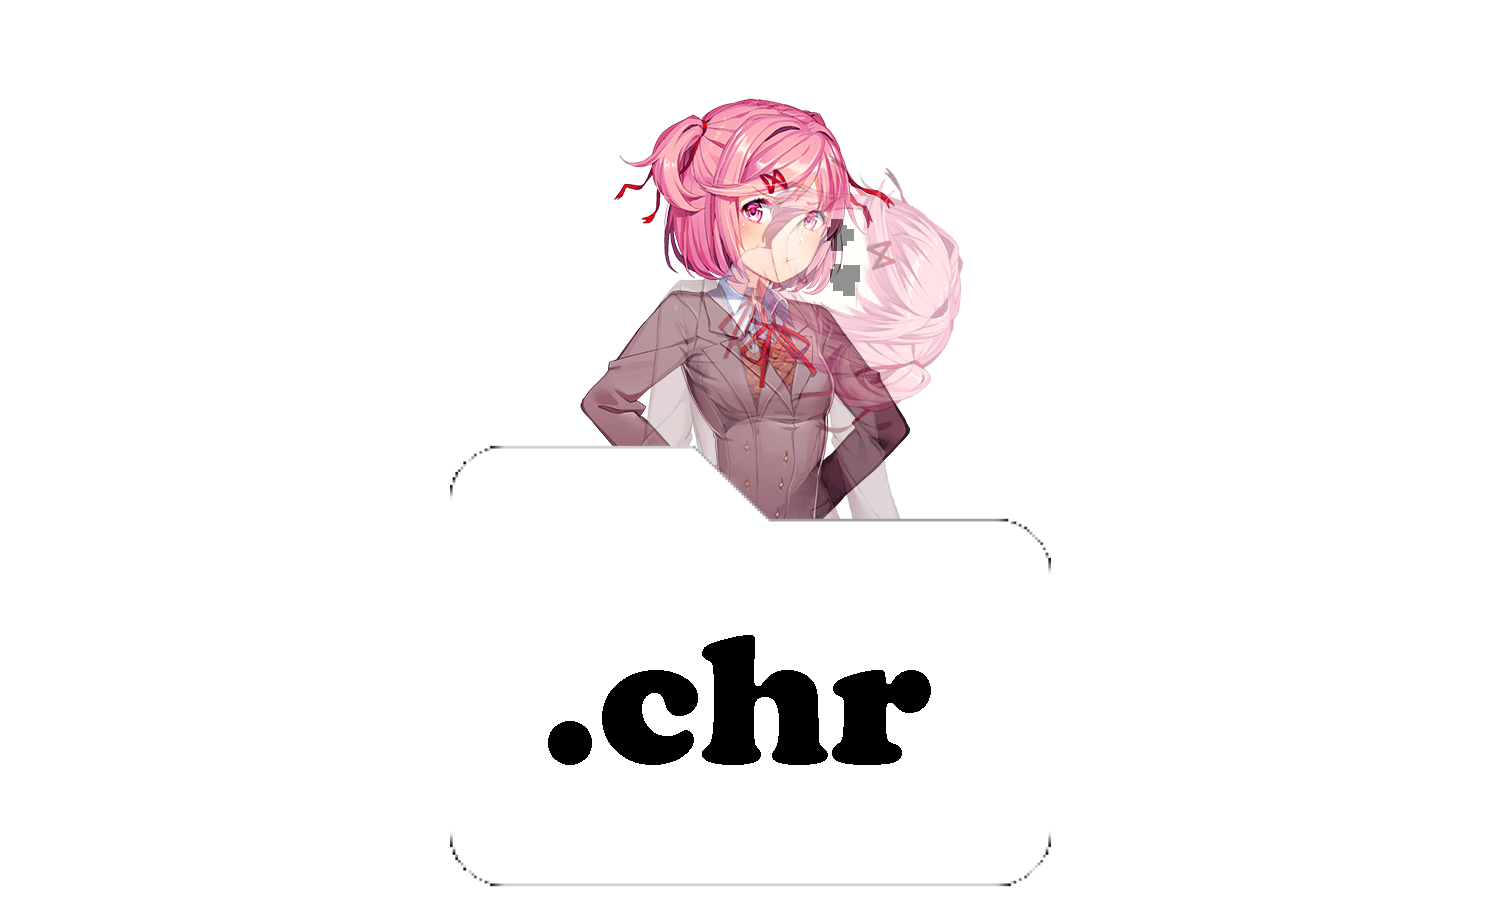
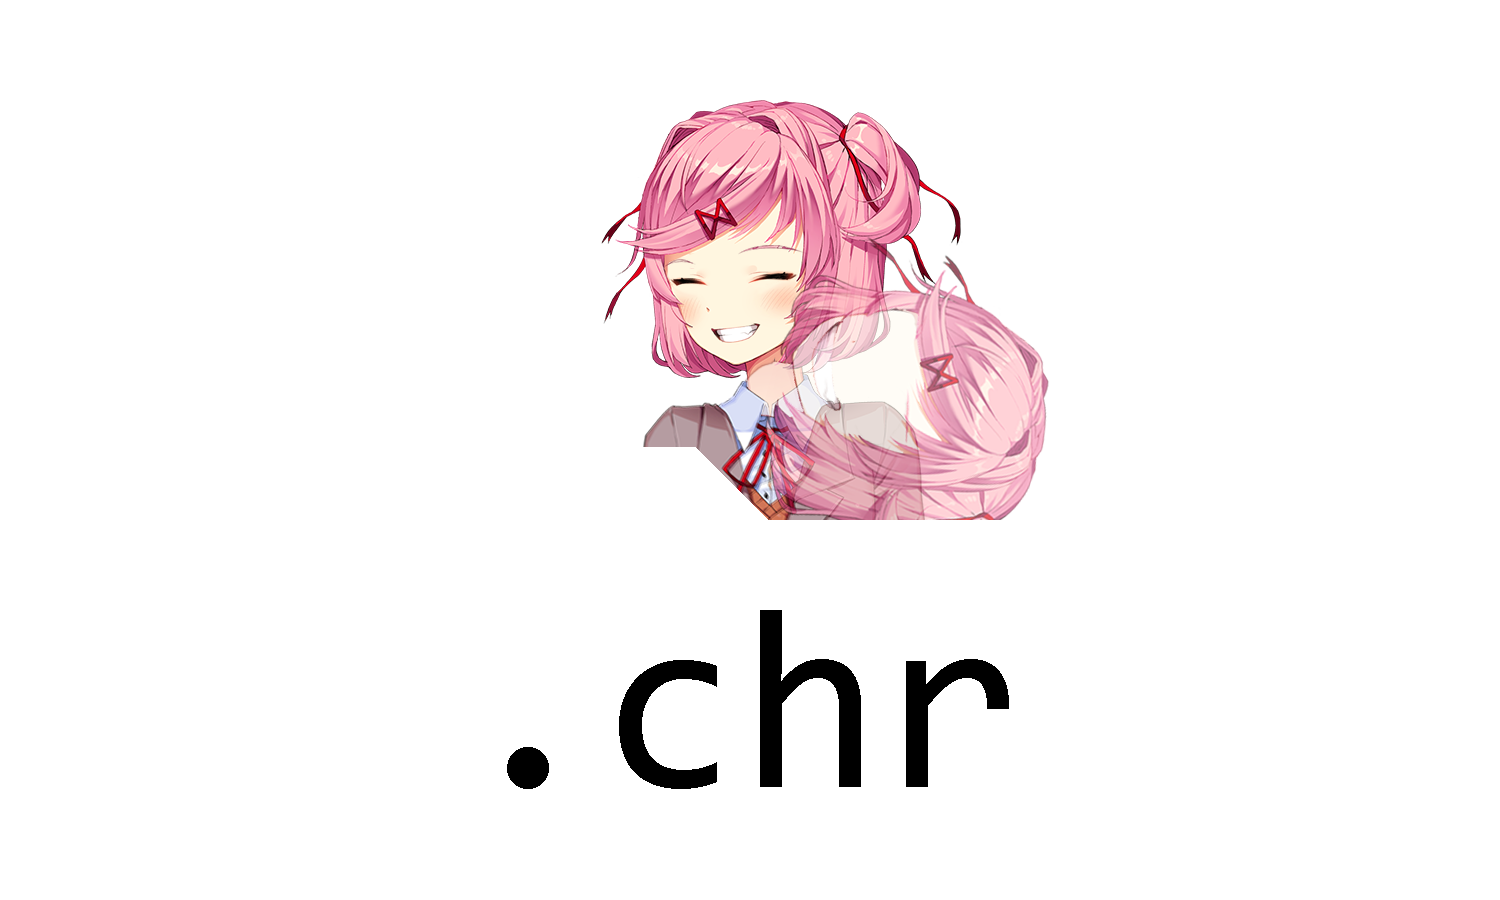
Updated .chr spell sprites.

Changed region(s): [[0.368, 0.0933, 0.7053, 0.5911], [0.3373, 0.6533, 0.6747, 0.9022], [0.3373, 0.9644, 0.6747, 0.9956]]

diff --git a/Smart_Attempt/dist/prettycards.user.js b/Smart_Attempt/dist/prettycards.user.js
@@ -168,7 +168,7 @@ eval("__webpack_require__.r(__webpack_exports__);\n/* harmony import */ var _src
 /***/ (function(module, __webpack_exports__, __webpack_require__) {
 
 "use strict";
-eval("__webpack_require__.r(__webpack_exports__);\n/* harmony import */ var _src_libraries_custom_cards_custom_cards_dictionary_js__WEBPACK_IMPORTED_MODULE_0__ = __webpack_require__(/*! /src/libraries/custom_cards/custom_cards_dictionary.js */ \"./src/libraries/custom_cards/custom_cards_dictionary.js\");\n\r\n\r\n\r\n// Chibis\r\n\r\n_src_libraries_custom_cards_custom_cards_dictionary_js__WEBPACK_IMPORTED_MODULE_0__[\"CustomCardsDictionary\"].AddCustomCard({\r\n\tname: \"{{PLURAL:$1|Chibi Sayori|Chibi Sayoris}}\",\r\n\timage: \"Chibi_Sayori\",\r\n\tcost: 3,\r\n\tattack: 2,\r\n\thp: 2,\r\n\tdescription: \"{{KW:MAGIC}}: All {{TRIBE:CHIBI|2}} get +1/+1/+1 for the rest of the game, and clear all negative effects from all ally monsters.\",\r\n\ttribes: [\"CHIBI\"],\r\n\textension: \"DDLC\",\r\n\trarity: \"COMMON\"\r\n});\r\n\r\n_src_libraries_custom_cards_custom_cards_dictionary_js__WEBPACK_IMPORTED_MODULE_0__[\"CustomCardsDictionary\"].AddCustomCard({\r\n\tname: \"{{PLURAL:$1|Chibi Natsuki|Chibi Natsukis}}\",\r\n\timage: \"Chibi_Natsuki\",\r\n\tcost: 3,\r\n\tattack: 2,\r\n\thp: 2,\r\n\tdescription: \"{{KW:MAGIC}}: All {{TRIBE:CHIBI|2}} get +1/+1/+1 for the rest of the game, and give +3 {{HP}} to an ally monster.\",\r\n\ttribes: [\"CHIBI\"],\r\n\textension: \"DDLC\",\r\n\trarity: \"COMMON\"\r\n});\r\n\r\n_src_libraries_custom_cards_custom_cards_dictionary_js__WEBPACK_IMPORTED_MODULE_0__[\"CustomCardsDictionary\"].AddCustomCard({\r\n\tname: \"{{PLURAL:$1|Chibi Yuri|Chibi Yuris}}\",\r\n\timage: \"Chibi_Yuri\",\r\n\tcost: 3,\r\n\tattack: 2,\r\n\thp: 2,\r\n\tdescription: \"{{KW:MAGIC}}: All {{TRIBE:CHIBI|2}} get +1/+1/+1 for the rest of the game, and give +2 {{ATK}} to an ally monster.\",\r\n\ttribes: [\"CHIBI\"],\r\n\textension: \"DDLC\",\r\n\trarity: \"COMMON\"\r\n});\r\n\r\n_src_libraries_custom_cards_custom_cards_dictionary_js__WEBPACK_IMPORTED_MODULE_0__[\"CustomCardsDictionary\"].AddCustomCard({\r\n\tname: \"{{PLURAL:$1|Chibi Monika|Chibi Monikas}}\",\r\n\timage: \"Chibi_Monika\",\r\n\tcost: 5,\r\n\tattack: 2,\r\n\thp: 2,\r\n\tdescription: \"{{KW:MAGIC}}: All {{TRIBE:CHIBI|2}} get +1/+1/+1 for the rest of the game, and add a copy of all other ally {{TRIBE:CHIBI|2}} to your hand.\",\r\n\ttribes: [\"CHIBI\"],\r\n\textension: \"DDLC\",\r\n\trarity: \"COMMON\"\r\n});\r\n\r\n// Regular Cast\r\n\r\n_src_libraries_custom_cards_custom_cards_dictionary_js__WEBPACK_IMPORTED_MODULE_0__[\"CustomCardsDictionary\"].AddCustomCard({\r\n\tname: \"{{PLURAL:$1|Sayori|Sayoris}}\",\r\n\timage: \"Sayori\",\r\n\tcost: 4,\r\n\tattack: 3,\r\n\thp: 3,\r\n\tdescription: \"Immune to incoming effects. {{KW:SUICIDE}}: Deal 1 {{DMG}} to all enemy monsters. If they have 2 or more status effects, deal 3 {{DMG}} instead.\",\r\n\ttribes: [\"DOKI\"],\r\n\textension: \"DDLC\",\r\n\trarity: \"EPIC\"\r\n});\r\n\r\n_src_libraries_custom_cards_custom_cards_dictionary_js__WEBPACK_IMPORTED_MODULE_0__[\"CustomCardsDictionary\"].AddCustomCard({\r\n\tname: \"{{PLURAL:$1|Cupcake|Cupcakes}}\",\r\n\timage: \"Cupcake\",\r\n\tcost: 1,\r\n\tdescription: \"Heal for 4 {{HP}} to an ally or deal 3 {{DMG}} to an enemy monster.\",\r\n\textension: \"DDLC\",\r\n\trarity: \"TOKEN\"\r\n});\r\n\r\n_src_libraries_custom_cards_custom_cards_dictionary_js__WEBPACK_IMPORTED_MODULE_0__[\"CustomCardsDictionary\"].AddCustomCard({\r\n\tname: \"{{PLURAL:$1|Natsuki|Natsukis}}\",\r\n\timage: \"Natsuki\",\r\n\tcost: 4,\r\n\tattack: 3,\r\n\thp: 4,\r\n\tdescription: \"{{KW:MAGIC}}: Add two \" + _src_libraries_custom_cards_custom_cards_dictionary_js__WEBPACK_IMPORTED_MODULE_0__[\"CustomCardsDictionary\"].DescriptionCard(\"Cupcake\", 2) + \" to your hand. {{KW:SUICIDE}}: Deal 5 {{DMG}} to the monster in front of this.\",\r\n\ttribes: [\"DOKI\"],\r\n\textension: \"DDLC\",\r\n\trarity: \"EPIC\"\r\n});\r\n\r\n_src_libraries_custom_cards_custom_cards_dictionary_js__WEBPACK_IMPORTED_MODULE_0__[\"CustomCardsDictionary\"].AddCustomCard({\r\n\tname: \"{{PLURAL:$1|Yuri|Yuris}}\",\r\n\timage: \"Yuri\",\r\n\tcost: 5,\r\n\tattack: 4,\r\n\thp: 3,\r\n\tdescription: \"Whenever this survives {{DMG}}, give this +1 {{HP}}. {{KW:SUICIDE}}: {{KW:PARALYZE}} all ally monsters, then {{KW:PARALYZE}} a random unparalyzed enemy monster for each paralyzed ally monster.\",\r\n\ttribes: [\"DOKI\"],\r\n\textension: \"DDLC\",\r\n\trarity: \"EPIC\"\r\n});\r\n\r\n_src_libraries_custom_cards_custom_cards_dictionary_js__WEBPACK_IMPORTED_MODULE_0__[\"CustomCardsDictionary\"].AddCustomCard({\r\n\tname: \"{{PLURAL:$1|Monika|Monikas}}\",\r\n\timage: \"Monika\",\r\n\tcost: 5,\r\n\tattack: 3,\r\n\thp: 3,\r\n\tdescription: \"{{KW:MAGIC}}: Kill an ally {{TRIBE:DOKI|1}} to summon another \" + _src_libraries_custom_cards_custom_cards_dictionary_js__WEBPACK_IMPORTED_MODULE_0__[\"CustomCardsDictionary\"].DescriptionSelfCard() + \". {{KW:DUST}}: Add another random {{TRIBE:DOKI|1}} to your hand with -2 {{COST}}.\",\r\n\ttribes: [\"DOKI\"],\r\n\textension: \"DDLC\",\r\n\trarity: \"EPIC\"\r\n});\r\n\r\n_src_libraries_custom_cards_custom_cards_dictionary_js__WEBPACK_IMPORTED_MODULE_0__[\"CustomCardsDictionary\"].AddCustomCard({\r\n\tname: \"{{PLURAL:$1|Main Character|Main Characters}}\",\r\n\timage: \"Protagonist\",\r\n\tcost: 6,\r\n\tattack: 3,\r\n\thp: 7,\r\n\ttaunt: true,\r\n\tdescription: \"{{KW:TAUNT}}. Whenever a {{KW:SUICIDE}} effect is activated, add a 1/1 copy of the triggering monster into your deck and give it +1/+1 for every {{TRIBE:DOKI|1}} in your hand.\",\r\n\t//tribes: [\"DOKI\"],\r\n\textension: \"DDLC\",\r\n\trarity: \"EPIC\"\r\n});\r\n\r\n/*\r\nCustomCardsDictionary.AddCustomCard({\r\n\tname: \"{{PLURAL:$1|Just Monika|Just Monikas}}\",\r\n\timage: \"Just_Monika\",\r\n\tcost: 9,\r\n\tattack: 6,\r\n\thp: 6,\r\n\tdescription: \"{{KW:MAGIC}}: Shuffle all the {{TRIBE:CHRSPELL|2}} into your deck. {{KW:SUICIDE}} effects trigger an additional time.\",\r\n\textension: \"DDLC\",\r\n\trarity: \"DETERMINATION\"\r\n});\r\n*/\r\n\r\n// Just Monika\r\n\r\n_src_libraries_custom_cards_custom_cards_dictionary_js__WEBPACK_IMPORTED_MODULE_0__[\"CustomCardsDictionary\"].AddCustomCard({\r\n\tname: \"{{PLURAL:$1|Sayori.chr|Sayori.chrs}}\",\r\n\timage: \"SayoriCHR\",\r\n\tcost: 0,\r\n\tdescription: \"{{KW:TURBO}}: Remove all negative effects from ally monsters, apply them to the monsters in front of them, burn this and draw a card.\",\r\n\ttribes: [\"CHRSPELL\"],\r\n\textension: \"DDLC\",\r\n\trarity: \"TOKEN\"\r\n});\r\n\r\n_src_libraries_custom_cards_custom_cards_dictionary_js__WEBPACK_IMPORTED_MODULE_0__[\"CustomCardsDictionary\"].AddCustomCard({\r\n\tname: \"{{PLURAL:$1|Natsuki.chr|Natsuki.chrs}}\",\r\n\timage: \"NatsukiCHR\",\r\n\tcost: 0,\r\n\tdescription: \"{{KW:TURBO}}: Summon a random 5-{{COST}} monster, trigger its {{KW:MAGIC}}, burn this and draw a card.\",\r\n\ttribes: [\"CHRSPELL\"],\r\n\textension: \"DDLC\",\r\n\trarity: \"TOKEN\"\r\n});\r\n\r\n_src_libraries_custom_cards_custom_cards_dictionary_js__WEBPACK_IMPORTED_MODULE_0__[\"CustomCardsDictionary\"].AddCustomCard({\r\n\tname: \"{{PLURAL:$1|Yuri.chr|Yuri.chrs}}\",\r\n\timage: \"YuriCHR\",\r\n\tcost: 0,\r\n\tdescription: \"{{KW:TURBO}}: Kill the enemy monster with the lowest {{HP}}, burn this and draw a card.\",\r\n\ttribes: [\"CHRSPELL\"],\r\n\textension: \"DDLC\",\r\n\trarity: \"TOKEN\"\r\n});\r\n\r\n_src_libraries_custom_cards_custom_cards_dictionary_js__WEBPACK_IMPORTED_MODULE_0__[\"CustomCardsDictionary\"].AddCustomCard({\r\n\tname: \"{{PLURAL:$1|Monika.chr|Monika.chrs}}\",\r\n\timage: \"MonikaCHR\",\r\n\tcost: 0,\r\n\tdescription: \"{{KW:TURBO}}: Send a random ally and enemy non-{{RARITY:DETERMINATION}} monster from the board to their owners' hands, burn this and draw a card.\",\r\n\ttribes: [\"CHRSPELL\"],\r\n\textension: \"DDLC\",\r\n\trarity: \"TOKEN\"\r\n});\r\n\r\n_src_libraries_custom_cards_custom_cards_dictionary_js__WEBPACK_IMPORTED_MODULE_0__[\"CustomCardsDictionary\"].AddCustomArtifact(\"File Explorer\", \r\n\t`{{KW:TURN-END}}: If a monster died this turn, add the next {{TRIBE:CHRSPELL|1}} to the top of your deck. Add an additional one for every ally {{KW:SUICIDE}} effect triggered this turn. \r\n\tOrder of {{TRIBE:CHRSPELL|2}}: ${_src_libraries_custom_cards_custom_cards_dictionary_js__WEBPACK_IMPORTED_MODULE_0__[\"CustomCardsDictionary\"].DescriptionCard(\"Sayori.chr\", 1)} > ${_src_libraries_custom_cards_custom_cards_dictionary_js__WEBPACK_IMPORTED_MODULE_0__[\"CustomCardsDictionary\"].DescriptionCard(\"Natsuki.chr\", 1)} > ${_src_libraries_custom_cards_custom_cards_dictionary_js__WEBPACK_IMPORTED_MODULE_0__[\"CustomCardsDictionary\"].DescriptionCard(\"Yuri.chr\", 1)} > ${_src_libraries_custom_cards_custom_cards_dictionary_js__WEBPACK_IMPORTED_MODULE_0__[\"CustomCardsDictionary\"].DescriptionCard(\"Monika.chr\", 1)} > Start over.`\r\n);\r\n\r\n_src_libraries_custom_cards_custom_cards_dictionary_js__WEBPACK_IMPORTED_MODULE_0__[\"CustomCardsDictionary\"].AddCustomCard({\r\n\tname: \"{{PLURAL:$1|Just Monika|Just Monikas}}\",\r\n\timage: \"Just_Monika\",\r\n\tcost: 9,\r\n\tattack: 6,\r\n\thp: 6,\r\n\tdescription: \"{{KW:MAGIC}}: Add the \" + _src_libraries_custom_cards_custom_cards_dictionary_js__WEBPACK_IMPORTED_MODULE_0__[\"CustomCardsDictionary\"].DescriptionArtifact(\"File Explorer\") + \" artifact. Whenever you summon a monster, trigger its {{KW:SUICIDE}} effect.\",\r\n\textension: \"DDLC\",\r\n\trarity: \"DETERMINATION\"\r\n});\r\n\r\n\n\n//# sourceURL=webpack:///./src/libraries/custom_cards/custom_cards_ddlc.js?");
+eval("__webpack_require__.r(__webpack_exports__);\n/* harmony import */ var _src_libraries_custom_cards_custom_cards_dictionary_js__WEBPACK_IMPORTED_MODULE_0__ = __webpack_require__(/*! /src/libraries/custom_cards/custom_cards_dictionary.js */ \"./src/libraries/custom_cards/custom_cards_dictionary.js\");\n\r\n\r\n\r\n// Chibis\r\n\r\n_src_libraries_custom_cards_custom_cards_dictionary_js__WEBPACK_IMPORTED_MODULE_0__[\"CustomCardsDictionary\"].AddCustomCard({\r\n\tname: \"{{PLURAL:$1|Chibi Sayori|Chibi Sayoris}}\",\r\n\timage: \"Chibi_Sayori\",\r\n\tcost: 3,\r\n\tattack: 2,\r\n\thp: 2,\r\n\tdescription: \"{{KW:MAGIC}}: All {{TRIBE:CHIBI|2}} get +1/+1/+1 for the rest of the game, and clear all negative effects from all ally monsters.\",\r\n\ttribes: [\"CHIBI\"],\r\n\textension: \"DDLC\",\r\n\trarity: \"COMMON\"\r\n});\r\n\r\n_src_libraries_custom_cards_custom_cards_dictionary_js__WEBPACK_IMPORTED_MODULE_0__[\"CustomCardsDictionary\"].AddCustomCard({\r\n\tname: \"{{PLURAL:$1|Chibi Natsuki|Chibi Natsukis}}\",\r\n\timage: \"Chibi_Natsuki\",\r\n\tcost: 3,\r\n\tattack: 2,\r\n\thp: 2,\r\n\tdescription: \"{{KW:MAGIC}}: All {{TRIBE:CHIBI|2}} get +1/+1/+1 for the rest of the game, and give +3 {{HP}} to an ally monster.\",\r\n\ttribes: [\"CHIBI\"],\r\n\textension: \"DDLC\",\r\n\trarity: \"COMMON\"\r\n});\r\n\r\n_src_libraries_custom_cards_custom_cards_dictionary_js__WEBPACK_IMPORTED_MODULE_0__[\"CustomCardsDictionary\"].AddCustomCard({\r\n\tname: \"{{PLURAL:$1|Chibi Yuri|Chibi Yuris}}\",\r\n\timage: \"Chibi_Yuri\",\r\n\tcost: 3,\r\n\tattack: 2,\r\n\thp: 2,\r\n\tdescription: \"{{KW:MAGIC}}: All {{TRIBE:CHIBI|2}} get +1/+1/+1 for the rest of the game, and give +2 {{ATK}} to an ally monster.\",\r\n\ttribes: [\"CHIBI\"],\r\n\textension: \"DDLC\",\r\n\trarity: \"COMMON\"\r\n});\r\n\r\n_src_libraries_custom_cards_custom_cards_dictionary_js__WEBPACK_IMPORTED_MODULE_0__[\"CustomCardsDictionary\"].AddCustomCard({\r\n\tname: \"{{PLURAL:$1|Chibi Monika|Chibi Monikas}}\",\r\n\timage: \"Chibi_Monika\",\r\n\tcost: 5,\r\n\tattack: 2,\r\n\thp: 2,\r\n\tdescription: \"{{KW:MAGIC}}: All {{TRIBE:CHIBI|2}} get +1/+1/+1 for the rest of the game, and add a copy of all other ally {{TRIBE:CHIBI|2}} to your hand.\",\r\n\ttribes: [\"CHIBI\"],\r\n\textension: \"DDLC\",\r\n\trarity: \"COMMON\"\r\n});\r\n\r\n// Regular Cast\r\n\r\n_src_libraries_custom_cards_custom_cards_dictionary_js__WEBPACK_IMPORTED_MODULE_0__[\"CustomCardsDictionary\"].AddCustomCard({\r\n\tname: \"{{PLURAL:$1|Sayori|Sayoris}}\",\r\n\timage: \"Sayori\",\r\n\tcost: 4,\r\n\tattack: 3,\r\n\thp: 3,\r\n\tdescription: \"Immune to incoming effects. {{KW:SUICIDE}}: Deal 1 {{DMG}} to all enemy monsters. If they have 2 or more status effects, deal 3 {{DMG}} instead.\",\r\n\ttribes: [\"DOKI\"],\r\n\textension: \"DDLC\",\r\n\trarity: \"EPIC\"\r\n});\r\n\r\n_src_libraries_custom_cards_custom_cards_dictionary_js__WEBPACK_IMPORTED_MODULE_0__[\"CustomCardsDictionary\"].AddCustomCard({\r\n\tname: \"{{PLURAL:$1|Cupcake|Cupcakes}}\",\r\n\timage: \"Cupcake\",\r\n\tcost: 1,\r\n\tdescription: \"Heal for 4 {{HP}} to an ally or deal 3 {{DMG}} to an enemy monster.\",\r\n\textension: \"DDLC\",\r\n\trarity: \"TOKEN\"\r\n});\r\n\r\n_src_libraries_custom_cards_custom_cards_dictionary_js__WEBPACK_IMPORTED_MODULE_0__[\"CustomCardsDictionary\"].AddCustomCard({\r\n\tname: \"{{PLURAL:$1|Natsuki|Natsukis}}\",\r\n\timage: \"Natsuki\",\r\n\tcost: 4,\r\n\tattack: 3,\r\n\thp: 4,\r\n\tdescription: \"{{KW:MAGIC}}: Add two \" + _src_libraries_custom_cards_custom_cards_dictionary_js__WEBPACK_IMPORTED_MODULE_0__[\"CustomCardsDictionary\"].DescriptionCard(\"Cupcake\", 2) + \" to your hand. {{KW:SUICIDE}}: Deal 5 {{DMG}} to the monster in front of this.\",\r\n\ttribes: [\"DOKI\"],\r\n\textension: \"DDLC\",\r\n\trarity: \"EPIC\"\r\n});\r\n\r\n_src_libraries_custom_cards_custom_cards_dictionary_js__WEBPACK_IMPORTED_MODULE_0__[\"CustomCardsDictionary\"].AddCustomCard({\r\n\tname: \"{{PLURAL:$1|Yuri|Yuris}}\",\r\n\timage: \"Yuri\",\r\n\tcost: 5,\r\n\tattack: 4,\r\n\thp: 3,\r\n\tdescription: \"Whenever this survives {{DMG}}, give this +1 {{HP}}. {{KW:SUICIDE}}: {{KW:PARALYZE}} all ally monsters, then {{KW:PARALYZE}} a random unparalyzed enemy monster for each paralyzed ally monster.\",\r\n\ttribes: [\"DOKI\"],\r\n\textension: \"DDLC\",\r\n\trarity: \"EPIC\"\r\n});\r\n\r\n_src_libraries_custom_cards_custom_cards_dictionary_js__WEBPACK_IMPORTED_MODULE_0__[\"CustomCardsDictionary\"].AddCustomCard({\r\n\tname: \"{{PLURAL:$1|Monika|Monikas}}\",\r\n\timage: \"Monika\",\r\n\tcost: 5,\r\n\tattack: 3,\r\n\thp: 3,\r\n\tdescription: \"{{KW:MAGIC}}: Kill an ally {{TRIBE:DOKI|1}} to summon another \" + _src_libraries_custom_cards_custom_cards_dictionary_js__WEBPACK_IMPORTED_MODULE_0__[\"CustomCardsDictionary\"].DescriptionSelfCard() + \". {{KW:DUST}}: Add another random {{TRIBE:DOKI|1}} to your hand with -2 {{COST}}.\",\r\n\ttribes: [\"DOKI\"],\r\n\textension: \"DDLC\",\r\n\trarity: \"EPIC\"\r\n});\r\n\r\n_src_libraries_custom_cards_custom_cards_dictionary_js__WEBPACK_IMPORTED_MODULE_0__[\"CustomCardsDictionary\"].AddCustomCard({\r\n\tname: \"{{PLURAL:$1|Main Character|Main Characters}}\",\r\n\timage: \"Protagonist\",\r\n\tcost: 6,\r\n\tattack: 3,\r\n\thp: 7,\r\n\ttaunt: true,\r\n\tdescription: \"{{KW:TAUNT}}. Whenever a {{KW:SUICIDE}} effect is activated, add a 1/1 copy of the triggering monster into your deck and give it +1/+1 for every {{TRIBE:DOKI|1}} in your hand.\",\r\n\t//tribes: [\"DOKI\"],\r\n\textension: \"DDLC\",\r\n\trarity: \"EPIC\"\r\n});\r\n\r\n/*\r\nCustomCardsDictionary.AddCustomCard({\r\n\tname: \"{{PLURAL:$1|Just Monika|Just Monikas}}\",\r\n\timage: \"Just_Monika\",\r\n\tcost: 9,\r\n\tattack: 6,\r\n\thp: 6,\r\n\tdescription: \"{{KW:MAGIC}}: Shuffle all the {{TRIBE:CHRSPELL|2}} into your deck. {{KW:SUICIDE}} effects trigger an additional time.\",\r\n\textension: \"DDLC\",\r\n\trarity: \"DETERMINATION\"\r\n});\r\n*/\r\n\r\n// Just Monika\r\n\r\n_src_libraries_custom_cards_custom_cards_dictionary_js__WEBPACK_IMPORTED_MODULE_0__[\"CustomCardsDictionary\"].AddCustomCard({\r\n\tname: \"{{PLURAL:$1|Sayori.chr|Sayori.chrs}}\",\r\n\timage: \"SayoriCHR\",\r\n\tcost: 0,\r\n\tdescription: \"{{KW:TURBO}}: Remove all negative effects from ally monsters, apply them to the monsters in front of them, burn this and draw a card.\",\r\n\ttribes: [\"CHRSPELL\"],\r\n\textension: \"DDLC\",\r\n\trarity: \"TOKEN\"\r\n});\r\n\r\n_src_libraries_custom_cards_custom_cards_dictionary_js__WEBPACK_IMPORTED_MODULE_0__[\"CustomCardsDictionary\"].AddCustomCard({\r\n\tname: \"{{PLURAL:$1|Natsuki.chr|Natsuki.chrs}}\",\r\n\timage: \"NatsukiCHR\",\r\n\tcost: 0,\r\n\tdescription: \"{{KW:TURBO}}: Add a random 5-{{COST}} monster from your dustpile to your hand, give it -4 {{COST}}, burn this and draw a card.\",\r\n\ttribes: [\"CHRSPELL\"],\r\n\textension: \"DDLC\",\r\n\trarity: \"TOKEN\"\r\n});\r\n\r\n_src_libraries_custom_cards_custom_cards_dictionary_js__WEBPACK_IMPORTED_MODULE_0__[\"CustomCardsDictionary\"].AddCustomCard({\r\n\tname: \"{{PLURAL:$1|Yuri.chr|Yuri.chrs}}\",\r\n\timage: \"YuriCHR\",\r\n\tcost: 0,\r\n\tdescription: \"{{KW:TURBO}}: Kill the enemy monster with the lowest {{HP}}, burn this and draw a card.\",\r\n\ttribes: [\"CHRSPELL\"],\r\n\textension: \"DDLC\",\r\n\trarity: \"TOKEN\"\r\n});\r\n\r\n_src_libraries_custom_cards_custom_cards_dictionary_js__WEBPACK_IMPORTED_MODULE_0__[\"CustomCardsDictionary\"].AddCustomCard({\r\n\tname: \"{{PLURAL:$1|Monika.chr|Monika.chrs}}\",\r\n\timage: \"MonikaCHR\",\r\n\tcost: 0,\r\n\tdescription: \"{{KW:TURBO}}: Send a random ally and enemy non-{{RARITY:DETERMINATION}} monster from the board to their owners' hands, burn this and draw a card.\",\r\n\ttribes: [\"CHRSPELL\"],\r\n\textension: \"DDLC\",\r\n\trarity: \"TOKEN\"\r\n});\r\n\r\n_src_libraries_custom_cards_custom_cards_dictionary_js__WEBPACK_IMPORTED_MODULE_0__[\"CustomCardsDictionary\"].AddCustomArtifact(\"File Explorer\", \r\n\t`{{KW:TURN-END}}: If a monster died this turn, add the next {{TRIBE:CHRSPELL|1}} to the top of your deck. Add an additional one for every ally {{KW:SUICIDE}} effect triggered this turn. \r\n\tOrder of {{TRIBE:CHRSPELL|2}}: ${_src_libraries_custom_cards_custom_cards_dictionary_js__WEBPACK_IMPORTED_MODULE_0__[\"CustomCardsDictionary\"].DescriptionCard(\"Sayori.chr\", 1)} > ${_src_libraries_custom_cards_custom_cards_dictionary_js__WEBPACK_IMPORTED_MODULE_0__[\"CustomCardsDictionary\"].DescriptionCard(\"Natsuki.chr\", 1)} > ${_src_libraries_custom_cards_custom_cards_dictionary_js__WEBPACK_IMPORTED_MODULE_0__[\"CustomCardsDictionary\"].DescriptionCard(\"Yuri.chr\", 1)} > ${_src_libraries_custom_cards_custom_cards_dictionary_js__WEBPACK_IMPORTED_MODULE_0__[\"CustomCardsDictionary\"].DescriptionCard(\"Monika.chr\", 1)} > Start over.`\r\n);\r\n\r\n_src_libraries_custom_cards_custom_cards_dictionary_js__WEBPACK_IMPORTED_MODULE_0__[\"CustomCardsDictionary\"].AddCustomCard({\r\n\tname: \"{{PLURAL:$1|Just Monika|Just Monikas}}\",\r\n\timage: \"Just_Monika\",\r\n\tcost: 9,\r\n\tattack: 6,\r\n\thp: 6,\r\n\tdescription: \"{{KW:MAGIC}}: Add the \" + _src_libraries_custom_cards_custom_cards_dictionary_js__WEBPACK_IMPORTED_MODULE_0__[\"CustomCardsDictionary\"].DescriptionArtifact(\"File Explorer\") + \" artifact. Whenever you summon a monster, trigger its {{KW:SUICIDE}} effect.\",\r\n\textension: \"DDLC\",\r\n\trarity: \"DETERMINATION\"\r\n});\r\n\r\n\n\n//# sourceURL=webpack:///./src/libraries/custom_cards/custom_cards_ddlc.js?");
 
 /***/ }),
 

diff --git a/Smart_Attempt/src/libraries/custom_cards/custom_cards_ddlc.js b/Smart_Attempt/src/libraries/custom_cards/custom_cards_ddlc.js
@@ -152,7 +152,7 @@ CustomCardsDictionary.AddCustomCard({
 	name: "{{PLURAL:$1|Natsuki.chr|Natsuki.chrs}}",
 	image: "NatsukiCHR",
 	cost: 0,
-	description: "{{KW:TURBO}}: Summon a random 5-{{COST}} monster, trigger its {{KW:MAGIC}}, burn this and draw a card.",
+	description: "{{KW:TURBO}}: Add a random 5-{{COST}} monster from your dustpile to your hand, give it -4 {{COST}}, burn this and draw a card.",
 	tribes: ["CHRSPELL"],
 	extension: "DDLC",
 	rarity: "TOKEN"
